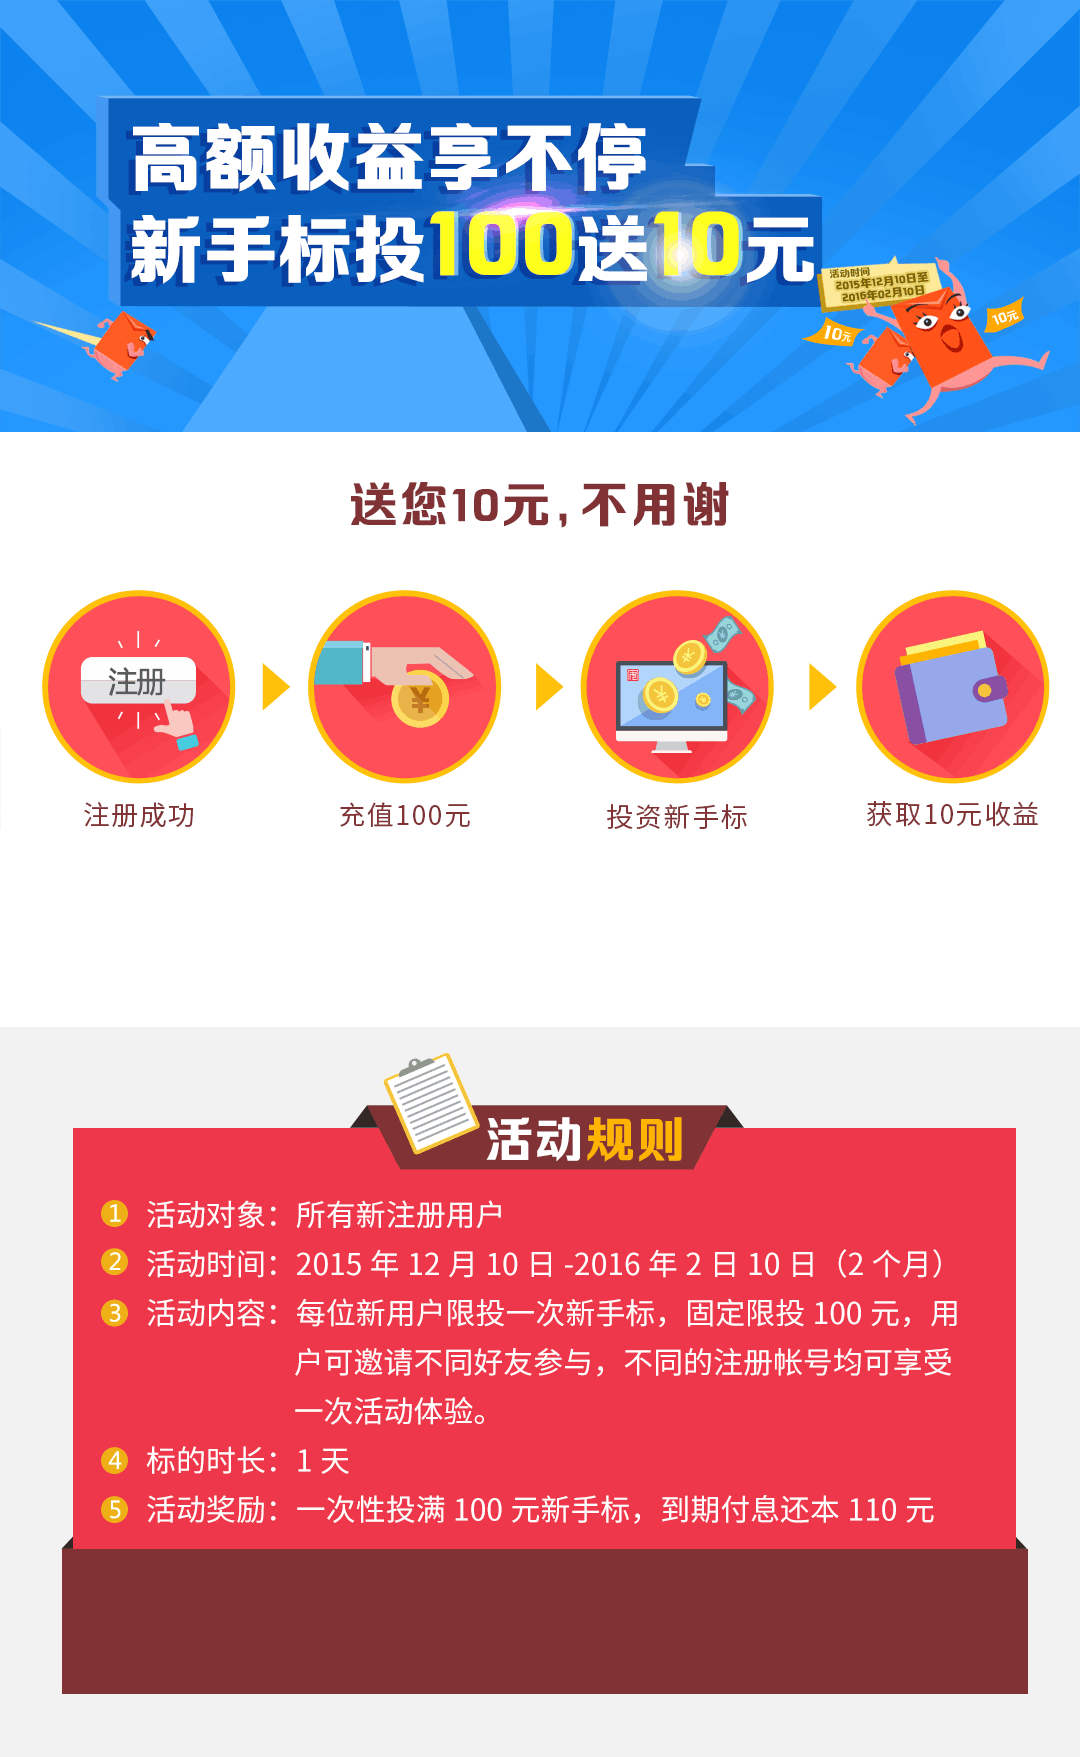
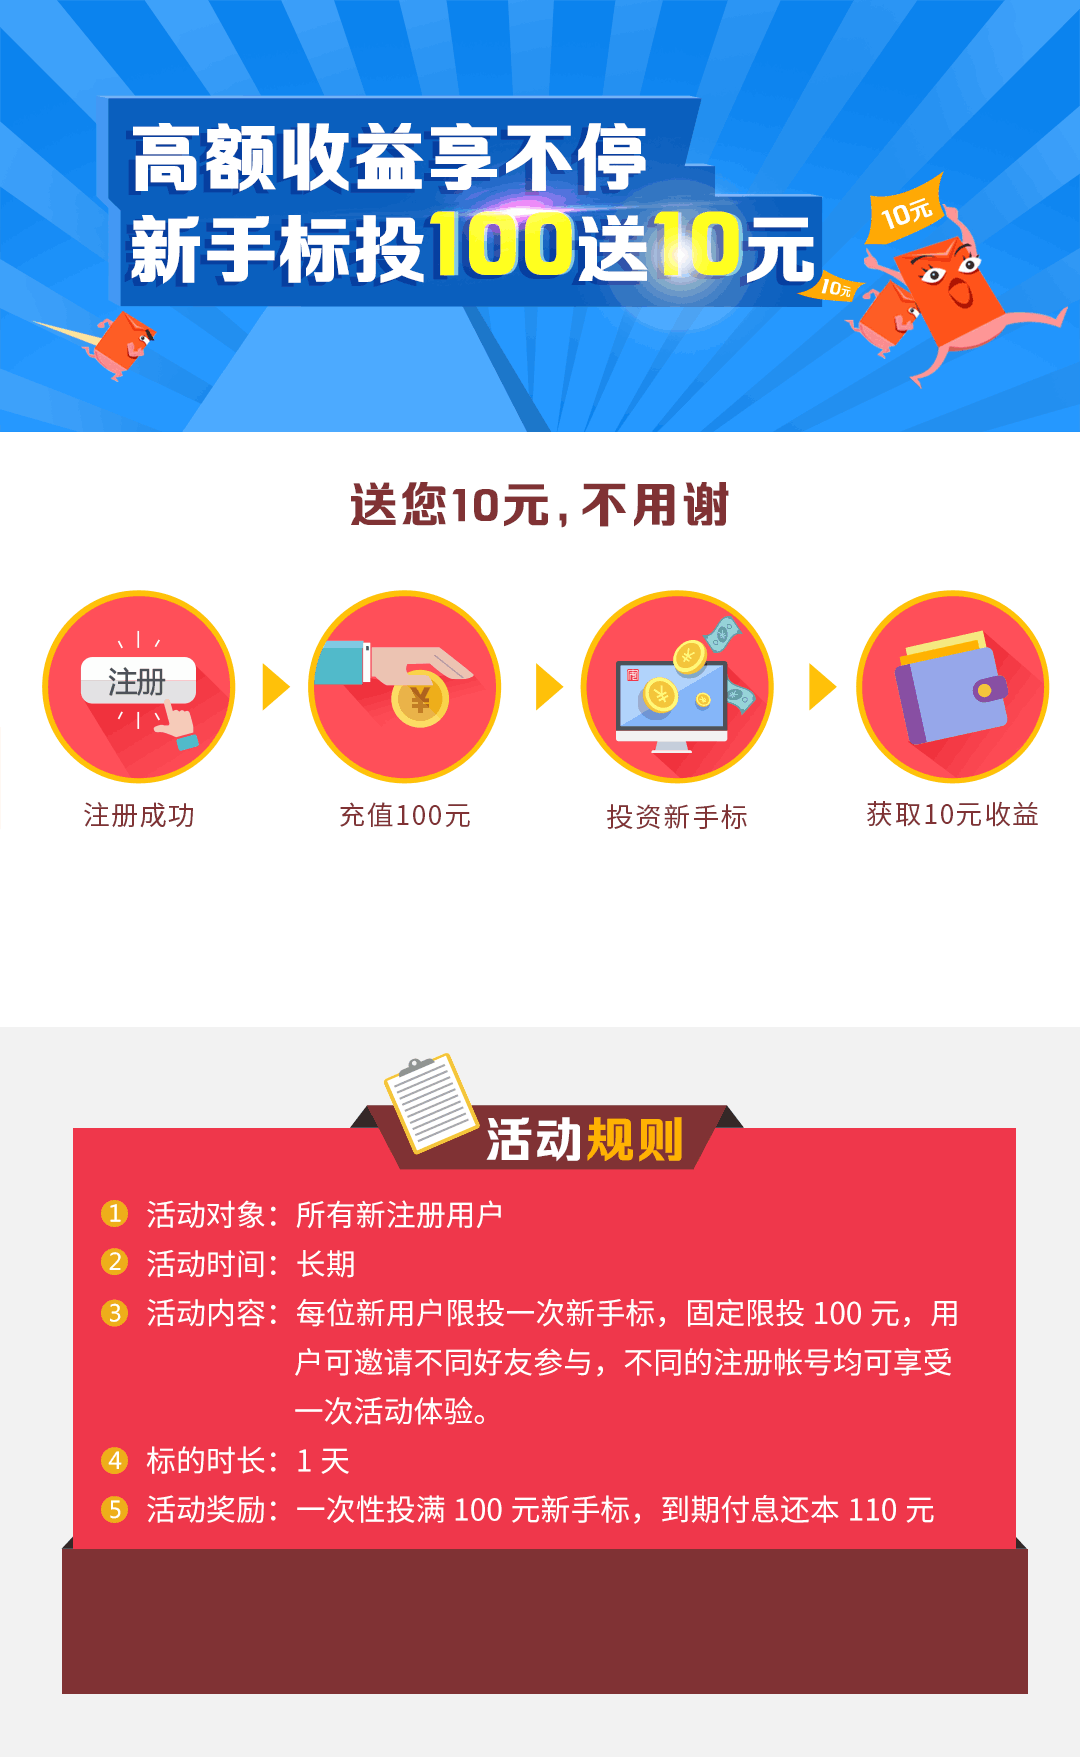
wechat首页banner更换、活动页面规则修改

diff --git a/Agp2p.Web/templates/weChat/index.html b/Agp2p.Web/templates/weChat/index.html
@@ -25,7 +25,7 @@
             </ol>-->
             <div class="carousel-inner" role="listbox">
                 <div class="item active">
-                    <a href='<%linkurl("activities")%>'><img src="<%templateskin%>/imgs/banner/banner-1.png"></a>
+                    <a href='<%linkurl("activities")%>'><img src="<%templateskin%>/imgs/banner/banner-2.png"></a>
                 </div>
             </div>
         </div>
